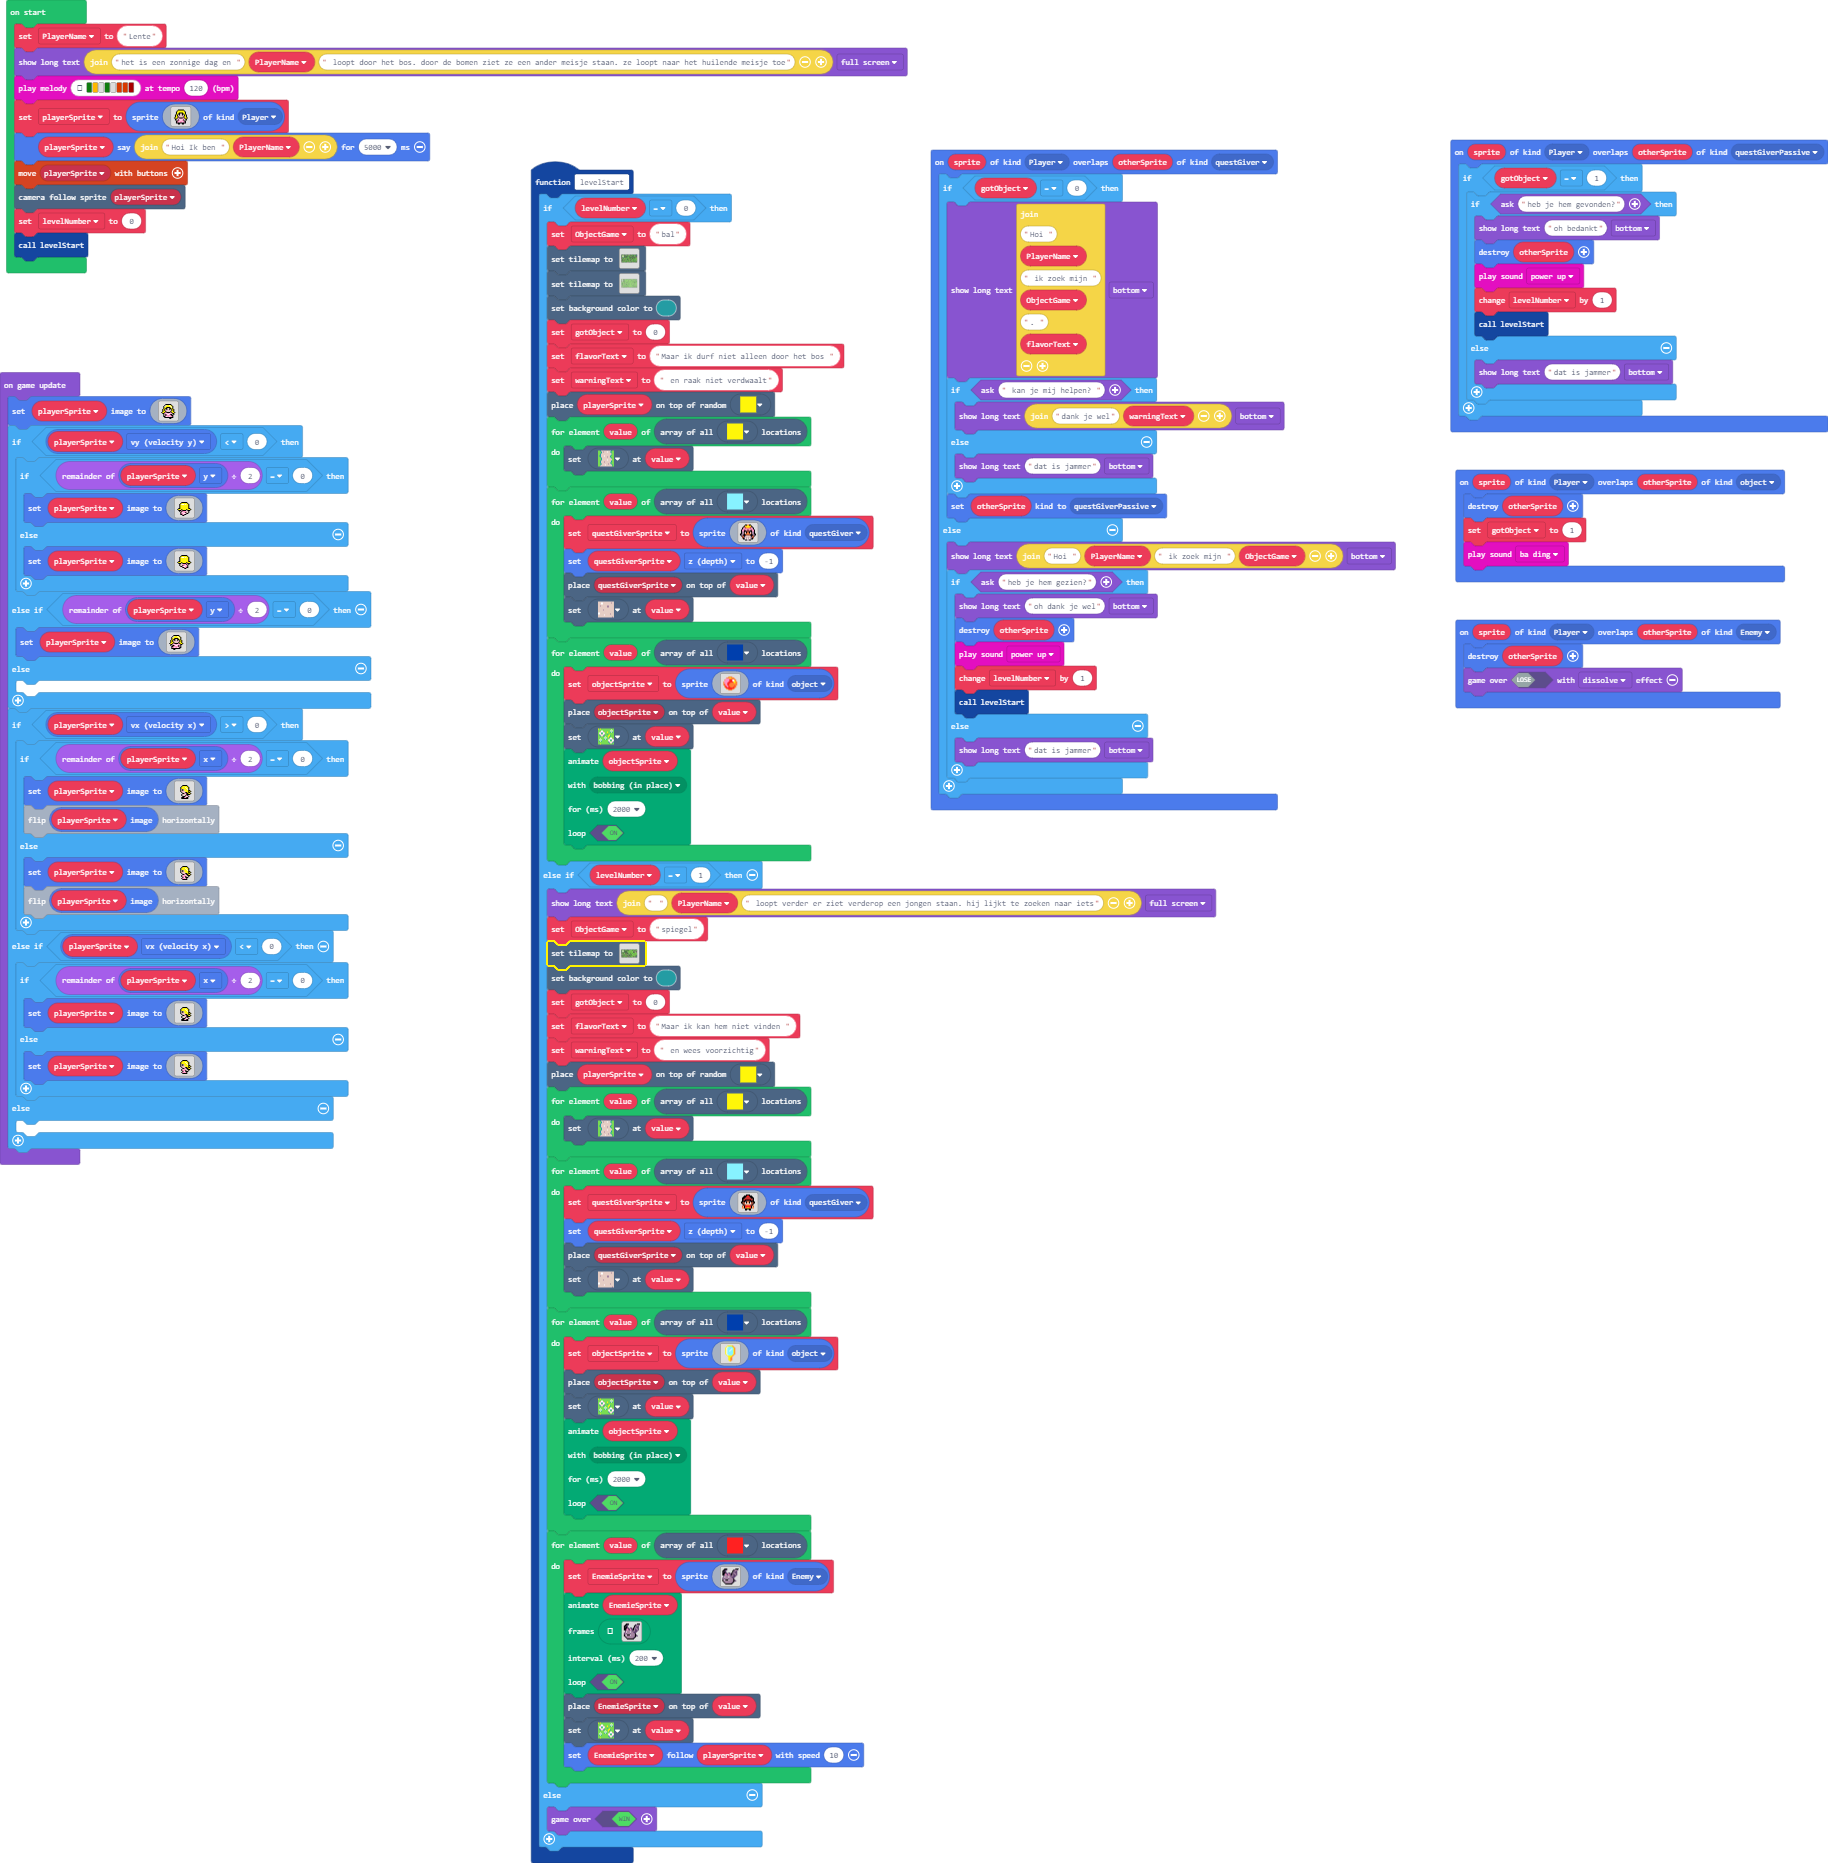
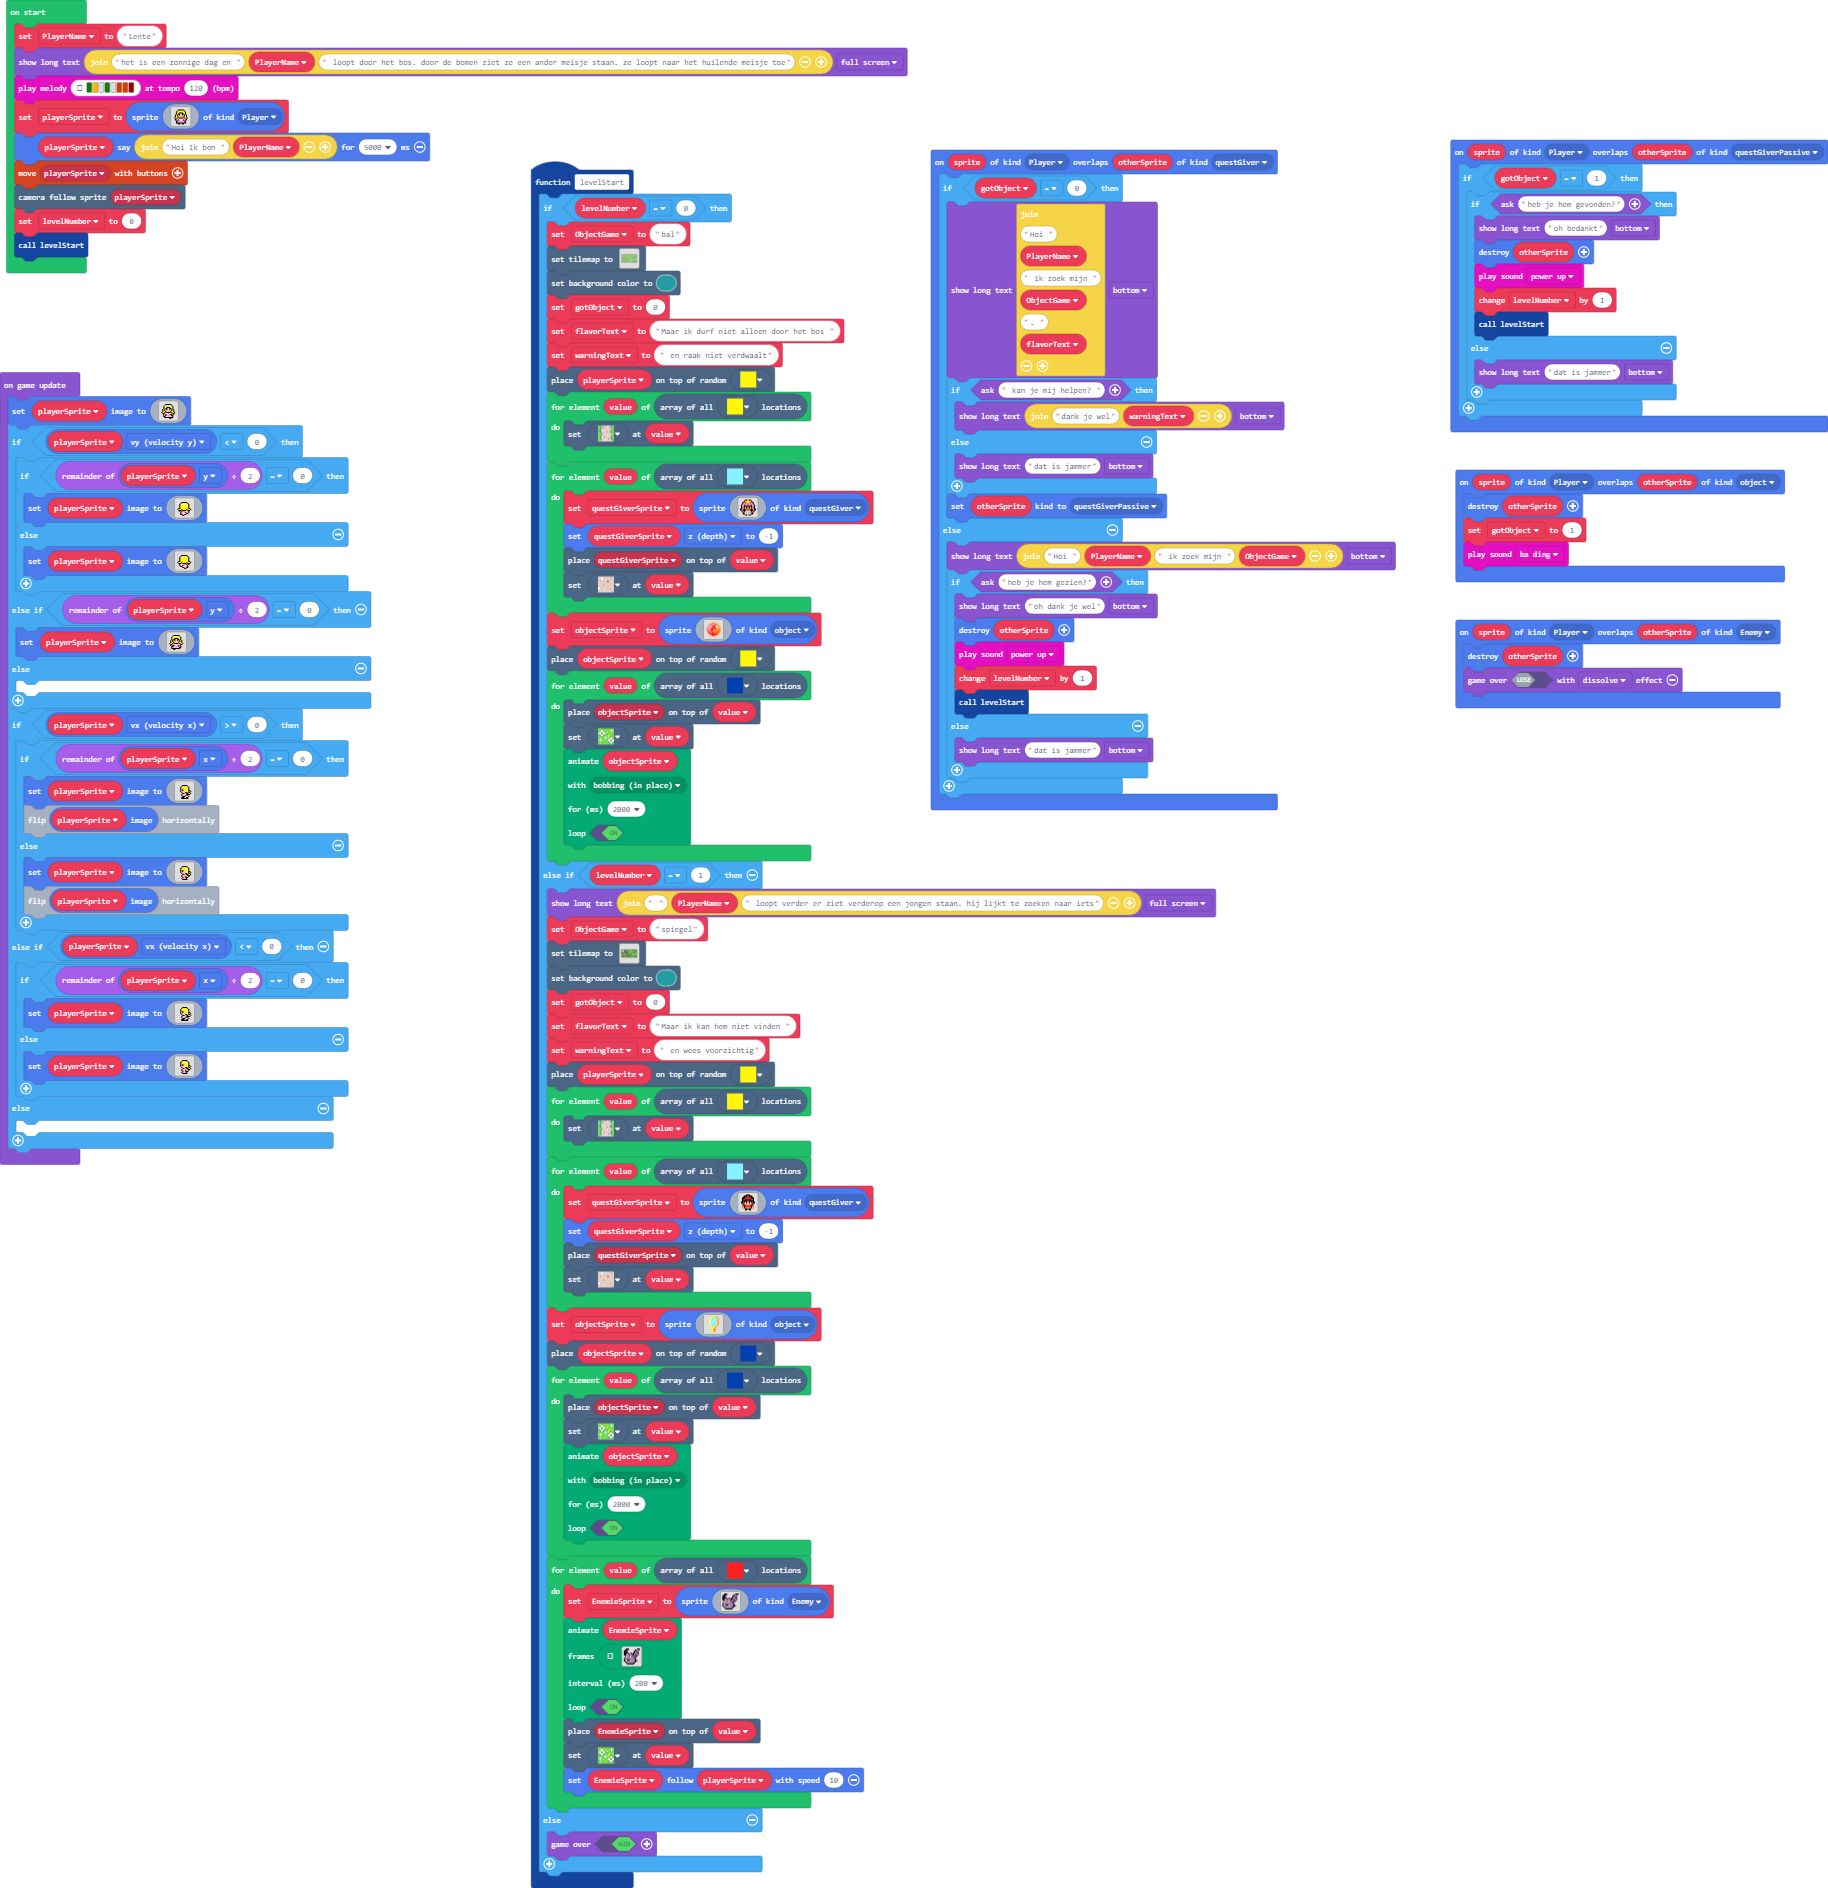
randomised object location lvl1

Changed region(s): [[0.0, 0.0, 1.0, 0.9651], [0.0, 0.1868, 0.2183, 0.6227]]

diff --git a/main.ts b/main.ts
@@ -147,30 +147,7 @@ function levelStart () {
     if (levelNumber == 0) {
         ObjectGame = "bal"
         tiles.setTilemap(tiles.createTilemap(
[1 lines of base64/hex data omitted]
-            img`
-2 2 2 2 2 2 2 2 2 2 2 2 2 2 2 2 2 2 2 2 2 2 2 2 2 2 2 2 2 2 2 2 
-2 . . . . . 2 . 2 . . . 2 . . . . . 2 . . . . . 2 . 2 . . . . 2 
-2 . . . . . 2 . 2 . 2 . 2 . 2 2 2 . 2 . 2 2 2 . 2 . . . 2 . . 2 
-2 . . . . . 2 . 2 . 2 . 2 . . . 2 . 2 . 2 . 2 . 2 . 2 2 2 2 2 2 
-2 . . . . . 2 . 2 . 2 . 2 2 2 . 2 . . . 2 . 2 . 2 . . . . . 2 2 
-2 . . . . . 2 . 2 . 2 . . . . . 2 . 2 . 2 . 2 . 2 . 2 2 2 2 2 2 
-2 2 2 . 2 2 2 . 2 . 2 2 2 2 2 . 2 . 2 . 2 . 2 . 2 . 2 . . . . 2 
-2 2 2 . 2 2 . . . . . . . . 2 . 2 . 2 . 2 . 2 . 2 . 2 2 2 2 . 2 
-2 . . . . . . 2 2 2 2 . 2 . . . . . 2 . . . 2 . . . . . . 2 . 2 
-2 . 2 2 2 . 2 2 2 2 2 . 2 . 2 2 2 2 2 . 2 2 2 . 2 2 2 2 . 2 . 2 
-2 . 2 . . . . . . . . . 2 . . . . . 2 . . . . . . . . . . 2 . 2 
-2 . 2 . 2 2 2 2 2 2 2 2 2 2 2 2 2 . 2 . 2 2 2 2 2 2 2 2 2 2 . 2 
-2 . 2 . . . . . . . . . . . . . . . 2 . . . . . . . . . . . . 2 
-2 . 2 2 2 2 2 2 2 2 2 2 2 2 2 2 2 . 2 . 2 . 2 2 2 2 2 2 2 2 2 2 
-2 . . . . . . . . . . . . . . . . . . . 2 . . . . . . . . . . 2 
-2 2 2 2 2 2 2 2 2 2 2 2 2 2 2 2 2 2 2 2 2 2 2 2 2 2 2 2 2 2 2 2 
-`,
-            [myTiles.tile0,sprites.castle.tileGrass1,sprites.castle.tilePath2,sprites.castle.tilePath1,sprites.castle.tilePath3,sprites.castle.tilePath5,sprites.castle.tilePath4,sprites.castle.tilePath6,sprites.castle.tilePath7,sprites.castle.tilePath9,sprites.castle.tileGrass3,sprites.castle.tileGrass2,sprites.builtin.forestTiles18,sprites.builtin.forestTiles17,sprites.builtin.forestTiles19,sprites.castle.tilePath8,sprites.castle.saplingOak,sprites.castle.saplingPine,sprites.castle.rock1,sprites.castle.rock0,sprites.castle.rock2,myTiles.tile1,myTiles.tile2,myTiles.tile3,myTiles.tile4,myTiles.tile5,myTiles.tile6,sprites.castle.shrub,sprites.builtin.forestTiles0,sprites.builtin.forestTiles2,sprites.builtin.forestTiles3,sprites.builtin.forestTiles22,sprites.builtin.forestTiles21,sprites.builtin.forestTiles4],
-            TileScale.Sixteen
-        ))
-        tiles.setTilemap(tiles.createTilemap(
[2 lines of base64/hex data omitted]
             img`
 2 2 2 2 2 2 2 2 2 2 2 2 2 2 2 2 2 2 2 2 2 2 2 2 2 2 2 2 2 2 2 2 2 2 2 2 2 2 2 2 2 2 2 
 2 . . . . . 2 . . 2 . . . . . 2 . . . . . . . 2 . . . . . . . . 2 . . 2 . . . . . . 2 
@@ -230,8 +207,7 @@ f b b f f f e e e e f f f b b f
             tiles.placeOnTile(questGiverSprite, value)
             tiles.setTileAt(value, sprites.castle.tilePath5)
         }
-        for (let value of tiles.getTilesByType(myTiles.tile3)) {
-            objectSprite = sprites.create(img`
+        objectSprite = sprites.create(img`
 . . . . . . . . . . . . . . . . 
 . . . . . . 4 4 4 4 . . . . . . 
 . . . . 4 4 4 5 5 4 4 4 . . . . 
@@ -249,6 +225,8 @@ f b b f f f e e e e f f f b b f
 . . . . . . 4 4 4 4 . . . . . . 
 . . . . . . . . . . . . . . . . 
 `, SpriteKind.object)
+        tiles.placeOnRandomTile(objectSprite, myTiles.tile2)
+        for (let value of tiles.getTilesByType(myTiles.tile3)) {
             tiles.placeOnTile(objectSprite, value)
             tiles.setTileAt(value, sprites.castle.tileGrass2)
             animation.runMovementAnimation(
@@ -315,8 +293,7 @@ f b b f f f e e e e f f f b b f
             tiles.placeOnTile(questGiverSprite, value)
             tiles.setTileAt(value, sprites.castle.tilePath5)
         }
-        for (let value of tiles.getTilesByType(myTiles.tile3)) {
-            objectSprite = sprites.create(img`
+        objectSprite = sprites.create(img`
 . . . . . 5 5 5 5 5 4 . . . . . 
 . . . . 5 1 9 9 9 9 5 4 . . . . 
 . . . 5 1 9 9 9 9 9 9 5 4 . . . 
@@ -334,6 +311,8 @@ f b b f f f e e e e f f f b b f
 . . . . . . 5 5 4 4 . . . . . . 
 . . . . . . . 5 4 . . . . . . . 
 `, SpriteKind.object)
+        tiles.placeOnRandomTile(objectSprite, myTiles.tile3)
+        for (let value of tiles.getTilesByType(myTiles.tile3)) {
             tiles.placeOnTile(objectSprite, value)
             tiles.setTileAt(value, sprites.castle.tileGrass2)
             animation.runMovementAnimation(
